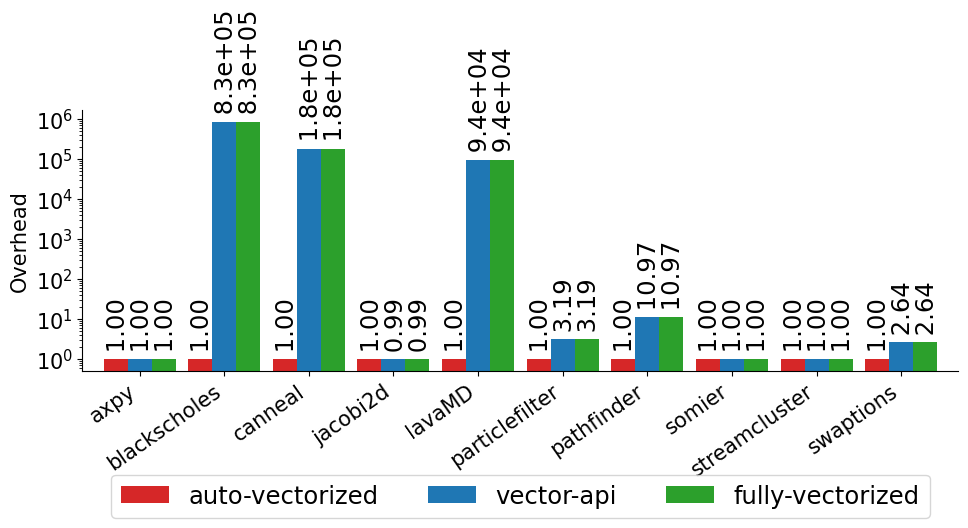
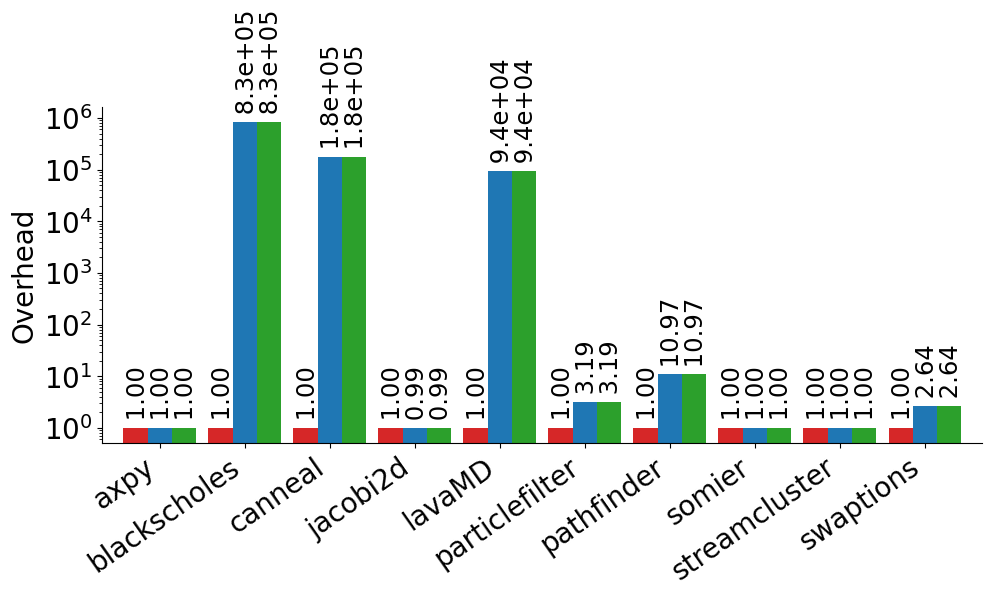
Updated plot scripts and figures

Changed region(s): [[0.0, 0.0, 0.9917, 0.9697]]

diff --git a/additionalPostProcessing/plot_memory_overhead_pattern.py b/additionalPostProcessing/plot_memory_overhead_pattern.py
@@ -21,7 +21,7 @@ def create_bar_plot_loopbound_indexinrange(csv_file, plot_filename, output_dir):
     bar_colors = [plt_colors[0], plt_colors[2], plt_colors[0]]
     
     # Create the bar plot
-    ax = df.plot(kind='bar', color=bar_colors, width=0.85, figsize=(10, 7))
+    ax = df.plot(kind='bar', color=bar_colors, width=0.85, figsize=(10, 6))
     
     # Set y-axis to log scale
     ax.set_yscale('log')
@@ -55,7 +55,8 @@ def create_bar_plot_loopbound_indexinrange(csv_file, plot_filename, output_dir):
     
     # Move the legend outside the plot
     # ax.legend(loc='upper left', bbox_to_anchor=(1.02, 1), borderaxespad=0)
-    ax.legend(loc='upper center', bbox_to_anchor=(0.5, -0.35), ncol=3, fontsize=17.5)
+    # ax.legend(loc='upper center', bbox_to_anchor=(0.5, -0.35), ncol=3, fontsize=17.5)
+    ax.get_legend().remove()
     
     # Ensure the output directory exists
     os.makedirs(output_dir, exist_ok=True)
@@ -90,7 +91,7 @@ def create_bar_plot_mul_pow(csv_file, plot_filename, output_dir):
     bar_colors = [plt_colors[0], plt_colors[2], plt_colors[0]]
     
     # Create the bar plot
-    ax = df.plot(kind='bar', color=bar_colors, width=0.85, figsize=(10, 7))
+    ax = df.plot(kind='bar', color=bar_colors, width=0.85, figsize=(10, 6))
     
     # Set y-axis to log scale
     ax.set_yscale('log')
@@ -124,7 +125,8 @@ def create_bar_plot_mul_pow(csv_file, plot_filename, output_dir):
     
     # Move the legend outside the plot
     # ax.legend(loc='upper left', bbox_to_anchor=(1.02, 1), borderaxespad=0)
-    ax.legend(loc='upper center', bbox_to_anchor=(0.5, -0.5), ncol=3, fontsize=17.5)
+    # ax.legend(loc='upper center', bbox_to_anchor=(0.5, -0.5), ncol=3, fontsize=17.5)
+    ax.get_legend().remove()
     
     # Ensure the output directory exists
     os.makedirs(output_dir, exist_ok=True)

diff --git a/additionalPostProcessing/plot_memory_overhead.py b/additionalPostProcessing/plot_memory_overhead.py
@@ -27,10 +27,10 @@ def create_bar_plot(csv_file, plot_filename, output_dir):
     
     # Customize the plot
     ax.set_xlabel('', fontsize=20)
-    ax.set_ylabel('Overhead', fontsize=15)
+    ax.set_ylabel('Overhead', fontsize=20)
     ax.grid(axis='y', linestyle='', alpha=0.7)
-    plt.xticks(rotation=35, ha='right', fontsize=15)
-    plt.yticks(fontsize=15)
+    plt.xticks(rotation=35, ha='right', fontsize=20)
+    plt.yticks(fontsize=20)
     
     # Remove the top and right spines
     ax.spines['top'].set_visible(False)
@@ -53,14 +53,15 @@ def create_bar_plot(csv_file, plot_filename, output_dir):
     
     # Move the legend outside the plot
     # ax.legend(loc='upper left', bbox_to_anchor=(1.02, 1), borderaxespad=0)
-    ax.legend(loc='upper center', bbox_to_anchor=(0.5, -0.35), ncol=3, fontsize=17.5)
+    # ax.legend(loc='upper center', bbox_to_anchor=(0.5, -0.45), ncol=3, fontsize=17.5)
+    ax.get_legend().remove()
     
     # Make title
     # name = csv_file.split("gc_")[1].split(".")[0]
     # name = name.replace("_", ".")
     # name = "gc." + name
     
-    # plt.title(f"{name} overhead w.r.t. serial", fontsize=15, y=1.25)
+    # plt.title(f"{name} overhead w.r.t. serial", fontsize=20, y=1.25)
     
     # Ensure the output directory exists
     os.makedirs(output_dir, exist_ok=True)

diff --git a/additionalPostProcessing/plot_ratios.py b/additionalPostProcessing/plot_ratios.py
@@ -21,7 +21,7 @@ def create_bar_plot(csv_file, output_dir='figures', plot_filename='bar_plot.png'
     bar_colors = [plt_colors[3], plt_colors[0], plt_colors[2]]
     
     # Create the bar plot
-    ax = df.plot(kind='bar', color=bar_colors, width=0.85, figsize=(10, 7))
+    ax = df.plot(kind='bar', color=bar_colors, width=0.85, figsize=(10, 6))
     
     # Set y-axis to log scale
     ax.set_yscale('log')
@@ -61,7 +61,8 @@ def create_bar_plot(csv_file, output_dir='figures', plot_filename='bar_plot.png'
     
     # Move the legend outside the plot
     # ax.legend(loc='upper center', bbox_to_anchor=(0.5, -0.2), ncol=3)
-    ax.legend(loc='upper center', bbox_to_anchor=(0.5, -0.5), ncol=3, fontsize=17.5)
+    # ax.legend(loc='upper center', bbox_to_anchor=(0.5, -0.5), ncol=3, fontsize=17.5)
+    ax.get_legend().remove()
     
     # Ensure the output directory exists
     os.makedirs(output_dir, exist_ok=True)
